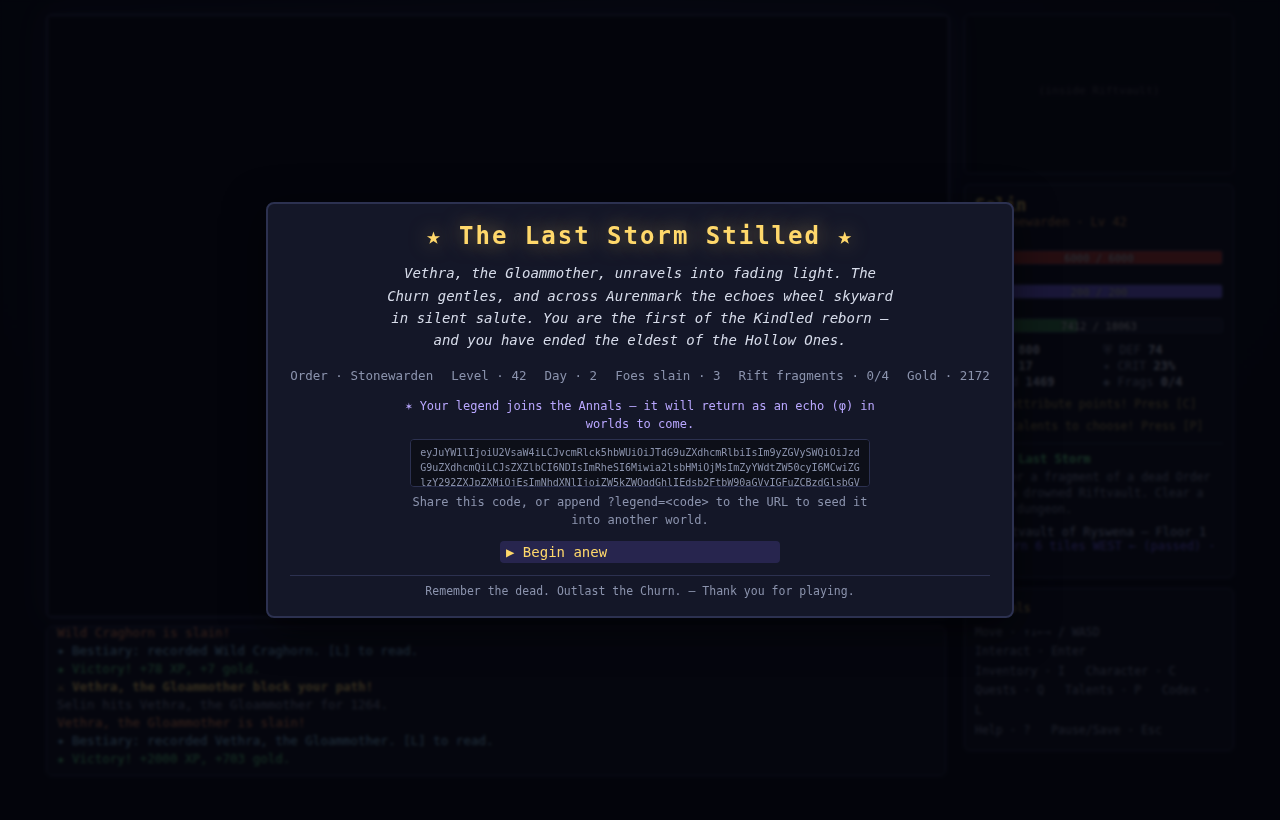
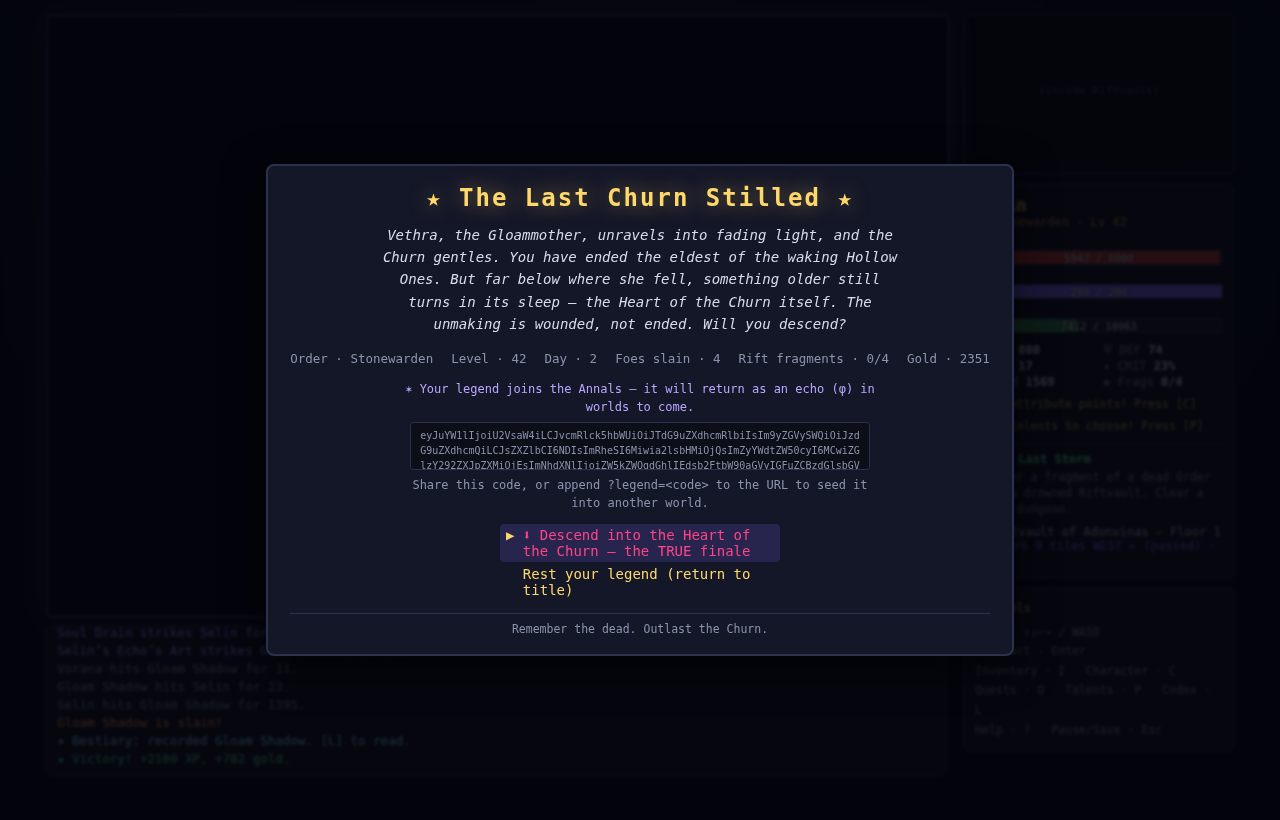
Authored hard finale: descend into the Heart of the Churn
Beating Vethra is no longer the end — the victory screen now offers a choice:
rest your legend, or DESCEND into the Heart of the Churn for the true finale.
There waits Karth-Vael, the first Hollow One and engine of the Churn itself —
an authored superboss (Lv22, ~2600 HP, 3 phases, spawns shadows, full ability
kit). Slaying it grants a second artifact, unlocks the TRUE ending ("The Churn
Unmade"), and is recorded in the Annals as a triumph.

New SUPERBOSS in the bestiary + lore; victory(grand) flow; churnheartFight;
two-option win screen; boss-phase add-spawn generalized.

Tests: logic 837, desktop 44 (full run → Vethra → Churnheart → true ending),
mobile 15 — all green, zero console errors.

Claude-Session: https://claude.ai/code/session_012JuAjoBx2YqM5W9EUw89GY

diff --git a/src/game.js b/src/game.js
@@ -526,11 +526,14 @@
       if (this.mode === 'dungeon') this.dungeon.floor.entities = this.dungeon.floor.entities.filter(function (e) { return e.alive; });
       // boss-specific outcomes
       const killedFinal = c.enemies.some(function (e) { return e.id === 'midnight_mother' && !e.alive; });
+      const killedSuper = c.enemies.some(function (e) { return e.id === 'churnheart' && !e.alive; });
       const killedMini = c.enemies.some(function (e) { return e.id === 'highlord_reaver' && !e.alive; });
       if (killedMini) { if (this.dungeon && this.dungeon.site) this.dungeon.site.cleared = true; loot.push(TLU.Items.UNIQUES.oathbringer()); }
+      if (killedSuper) { this.player.flags.churnheartSlain = true; TLU.Player.addItem(this.player, TLU.Items.UNIQUES.sunmaker()); }
       if (loot.length) { this.state = 'play'; this.openLoot(loot, 'Spoils of battle'); }
       else { this.state = 'play'; this.overlay = null; }
-      if (killedFinal) { this.victory(); return; }
+      if (killedSuper) { this.victory(true); return; }
+      if (killedFinal) { this.player.flags.vethraSlain = true; this.victory(false); return; }
       this.save();
     } else { // flee
       this.state = 'play'; this.overlay = null;
@@ -620,12 +623,21 @@
     this.overlay = { type: 'over', quote: quote, code: annal && TLU.Dynasty ? TLU.Dynasty.encode(annal) : '' };
     this.render();
   };
-  Game.prototype.victory = function () {
+  Game.prototype.victory = function (grand) {
     this.state = 'win';
-    const annal = this.recordAnnal(true, 'ended the Gloammother and stilled the Churn', 'They stood in the last Churn, and did not fall.');
+    const cause = grand ? 'unmade the Heart of the Churn and ended the unmaking forever' : 'ended the Gloammother and stilled the last Churn';
+    const epi = grand ? 'They walked into the wound of the world, and closed it.' : 'They stood in the last Churn, and did not fall.';
+    const annal = this.recordAnnal(true, cause, epi);
     TLU.Save.clear();
-    this.overlay = { type: 'win', code: annal && TLU.Dynasty ? TLU.Dynasty.encode(annal) : '' };
+    this.overlay = { type: 'win', grand: !!grand, code: annal && TLU.Dynasty ? TLU.Dynasty.encode(annal) : '' };
     this.render();
+  };
+  // the authored hard finale — fight the Heart of the Churn
+  Game.prototype.churnheartFight = function () {
+    const boss = TLU.Bestiary.scale(TLU.Bestiary.SUPERBOSS, TLU.Bestiary.SUPERBOSS.lvl);
+    this.discoverBestiary(boss);
+    this.msg('%cYou descend past where Vethra fell, into the wound at the centre of the world. Something vast and patient turns to face you...', 'boss');
+    this.startCombat([boss], { biome: 'aharietiam', level: 22, isBoss: true, canFlee: false });
   };
 
   // ---------- overlays open helpers ----------

diff --git a/src/screens.js b/src/screens.js
@@ -1078,15 +1078,31 @@
 
   // ---- VICTORY ----
   SCREENS.win = {
+    options: function (g) {
+      if (g.overlay.grand) return [['Begin anew', 'title']];
+      return [['⬇ Descend into the Heart of the Churn — the TRUE finale', 'churnheart'], ['Rest your legend (return to title)', 'title']];
+    },
     render: function (g) {
-      return '<div class="title-screen endscreen victory"><div class="end-title win">★ The Last Storm Stilled ★</div>' +
-        '<div class="end-quote">Vethra, the Gloammother, unravels into fading light. The Churn gentles, and across Aurenmark the echoes wheel skyward in silent salute. You are the first of the Kindled reborn — and you have ended the eldest of the Hollow Ones.</div>' +
+      const grand = g.overlay.grand;
+      const title = grand ? '★✶★ THE CHURN UNMADE ★✶★' : '★ The Last Churn Stilled ★';
+      const tale = grand
+        ? 'Karth-Vael, the Heart of the Churn, comes apart in your hands — and with it, the unmaking itself. The storm that walked the world since the first dawn simply... stops. Aurenmark exhales. The dead, at last, rest. Your name will outlast every hold: you did not merely survive the Churn. You ended it. <b>This is the true ending.</b>'
+        : 'Vethra, the Gloammother, unravels into fading light, and the Churn gentles. You have ended the eldest of the waking Hollow Ones. But far below where she fell, something older still turns in its sleep — the Heart of the Churn itself. The unmaking is wounded, not ended. Will you descend?';
+      return '<div class="title-screen endscreen victory"><div class="end-title win">' + title + '</div>' +
+        '<div class="end-quote">' + tale + '</div>' +
         statsBlock(g) + annalsNote(g) +
-        UI.renderMenu({ items: [{ label: 'Begin anew', color: '#ffd86b' }], cursor: 0 }) +
-        '<div class="menu-foot">Remember the dead. Outlast the Churn. — Thank you for playing.</div></div>';
+        UI.renderMenu({ items: SCREENS.win.options(g).map(function (o) { return { label: o[0], color: o[1] === 'churnheart' ? '#ff4488' : '#ffd86b' }; }), cursor: g.overlay.cursor || 0 }) +
+        '<div class="menu-foot">Remember the dead. Outlast the Churn.' + (grand ? ' — Thank you for playing.' : '') + '</div></div>';
     },
     key: function (g, k) {
-      if (k === 'Enter' || k === ' ' || k === 'Escape') { g.openTitle(); g.render(); }
+      const o = g.overlay; o.cursor = o.cursor || 0;
+      const opts = SCREENS.win.options(g);
+      menuNav(o, k, opts.length, function (i) {
+        const act = opts[i][1];
+        if (act === 'churnheart') { g.churnheartFight(); return; }
+        g.openTitle(); g.render();
+      });
+      g.render();
     },
   };
 

diff --git a/test/browser.js b/test/browser.js
@@ -241,9 +241,19 @@ function serve() {
   await page.waitForTimeout(80);
   const bossEnded = await resolveCombat(page, press, state, 300);
   ok('final boss fight resolves', bossEnded);
-  const finalState = await page.evaluate(() => ({ s: window.GAME.state, ov: window.GAME.overlay && window.GAME.overlay.type }));
+  const finalState = await page.evaluate(() => ({ s: window.GAME.state, ov: window.GAME.overlay && window.GAME.overlay.type, grand: window.GAME.overlay && window.GAME.overlay.grand }));
   ok('VICTORY screen reached', finalState.s === 'win' && finalState.ov === 'win');
+  ok('victory offers the Churnheart descent', finalState.grand !== true);
   if (finalState.s === 'win') await page.screenshot({ path: path.join(ROOT, 'assets', 'screenshot-victory.png') });
+
+  // ----- AUTHORED HARD FINALE: descend into the Heart of the Churn -----
+  await press('Enter');                            // option 0 = Descend into the Churnheart
+  await page.waitForTimeout(120);
+  ok('Churnheart finale begins', (await state()).s === 'combat');
+  const grandEnded = await resolveCombat(page, press, state, 400);
+  ok('Churnheart finale resolves', grandEnded);
+  const grand = await page.evaluate(() => ({ s: window.GAME.state, grand: window.GAME.overlay && window.GAME.overlay.grand, slain: !!window.GAME.player.flags.churnheartSlain }));
+  ok('TRUE ending reached (Churn unmade)', grand.s === 'win' && grand.grand === true && grand.slain === true);
 
   ok('no console/page errors', errors.length === 0);
   if (errors.length) errors.slice(0, 12).forEach((e) => console.error('    ! ' + e));

diff --git a/src/data/bestiary.js b/src/data/bestiary.js
@@ -35,6 +35,16 @@
     drops: 'artifact',
   };
 
+  // The authored hard finale — a superboss unlocked AFTER the main victory.
+  const SUPERBOSS = {
+    id: 'churnheart', name: 'Karth-Vael, the Heart of the Churn', glyph: '◉', color: '#ff2d78',
+    lvl: 22, hp: 2600, atk: 86, def: 34, spd: 14, xp: 6000, gold: [0, 0], boss: true, tags: ['void'],
+    desc: 'The first of the Hollow Ones, and the engine of the Churn itself — the wound at the centre of the world. To end it is to end the unmaking forever.',
+    phases: 3,
+    abilities: ['midnight_flood', 'quake', 'drain', 'terror', 'stormblast', 'spawn_shadow', 'gravlance'],
+    drops: 'artifact',
+  };
+
   // A mini-boss for the midgame.
   const MINIBOSS = {
     id: 'highlord_reaver', name: 'Varen, Warlord of Cinders', glyph: '☠', color: '#ff6a3d',
@@ -63,9 +73,14 @@
   TLU.Bestiary = {
     LIST: BESTIARY,
     FINAL_BOSS: FINAL_BOSS,
+    SUPERBOSS: SUPERBOSS,
     MINIBOSS: MINIBOSS,
     scale: scale,
-    byId: function (id) { return BESTIARY.find(function (b) { return b.id === id; }) || FINAL_BOSS; },
+    byId: function (id) {
+      if (id === 'churnheart') return SUPERBOSS;
+      if (id === 'midnight_mother') return FINAL_BOSS;
+      return BESTIARY.find(function (b) { return b.id === id; }) || FINAL_BOSS;
+    },
     // pick a template appropriate for biome & level, then scale it
     spawn: function (rng, biome, level) {
       let pool = BESTIARY.filter(function (b) {

diff --git a/src/data/dialogue.js b/src/data/dialogue.js
@@ -301,6 +301,7 @@
     unmade_shard: 'A splinter of a Hollow One — a shard of an old god\'s malice. Where it walks, the dead grow restless and the living grow afraid.',
     highlord_reaver: 'Varen, Warlord of Cinders — the man uniting the Reaver bands beneath one black banner. He carries a stolen Riftshard and hunts the Kindled for sport.',
     midnight_mother: 'Vethra, the Gloammother — eldest of the waking Hollow Ones. A thing of living darkness that births murderous shadows to mimic and murder. She wears voices like cloaks. Do not listen.',
+    churnheart: 'Karth-Vael, the Heart of the Churn — the first Hollow One, and the engine of the unmaking itself. It does not wake; it has never slept. To stand before it is to stand at the wound in the centre of the world. To end it is to end the Churn forever.',
   };
 
   // ---- helpers ----

diff --git a/src/combat.js b/src/combat.js
@@ -223,7 +223,7 @@
       e.atk = Math.round(e.atk * 1.12);
       e.spd += 1;
       this.log('%c☇ ' + e.name + ' surges with renewed fury! (Phase ' + newPhase + ')', 'boss');
-      if (e.id === 'midnight_mother') this.spawnAdd(e);
+      if (e.id === 'midnight_mother' || e.id === 'churnheart') this.spawnAdd(e);
     }
   };
 
